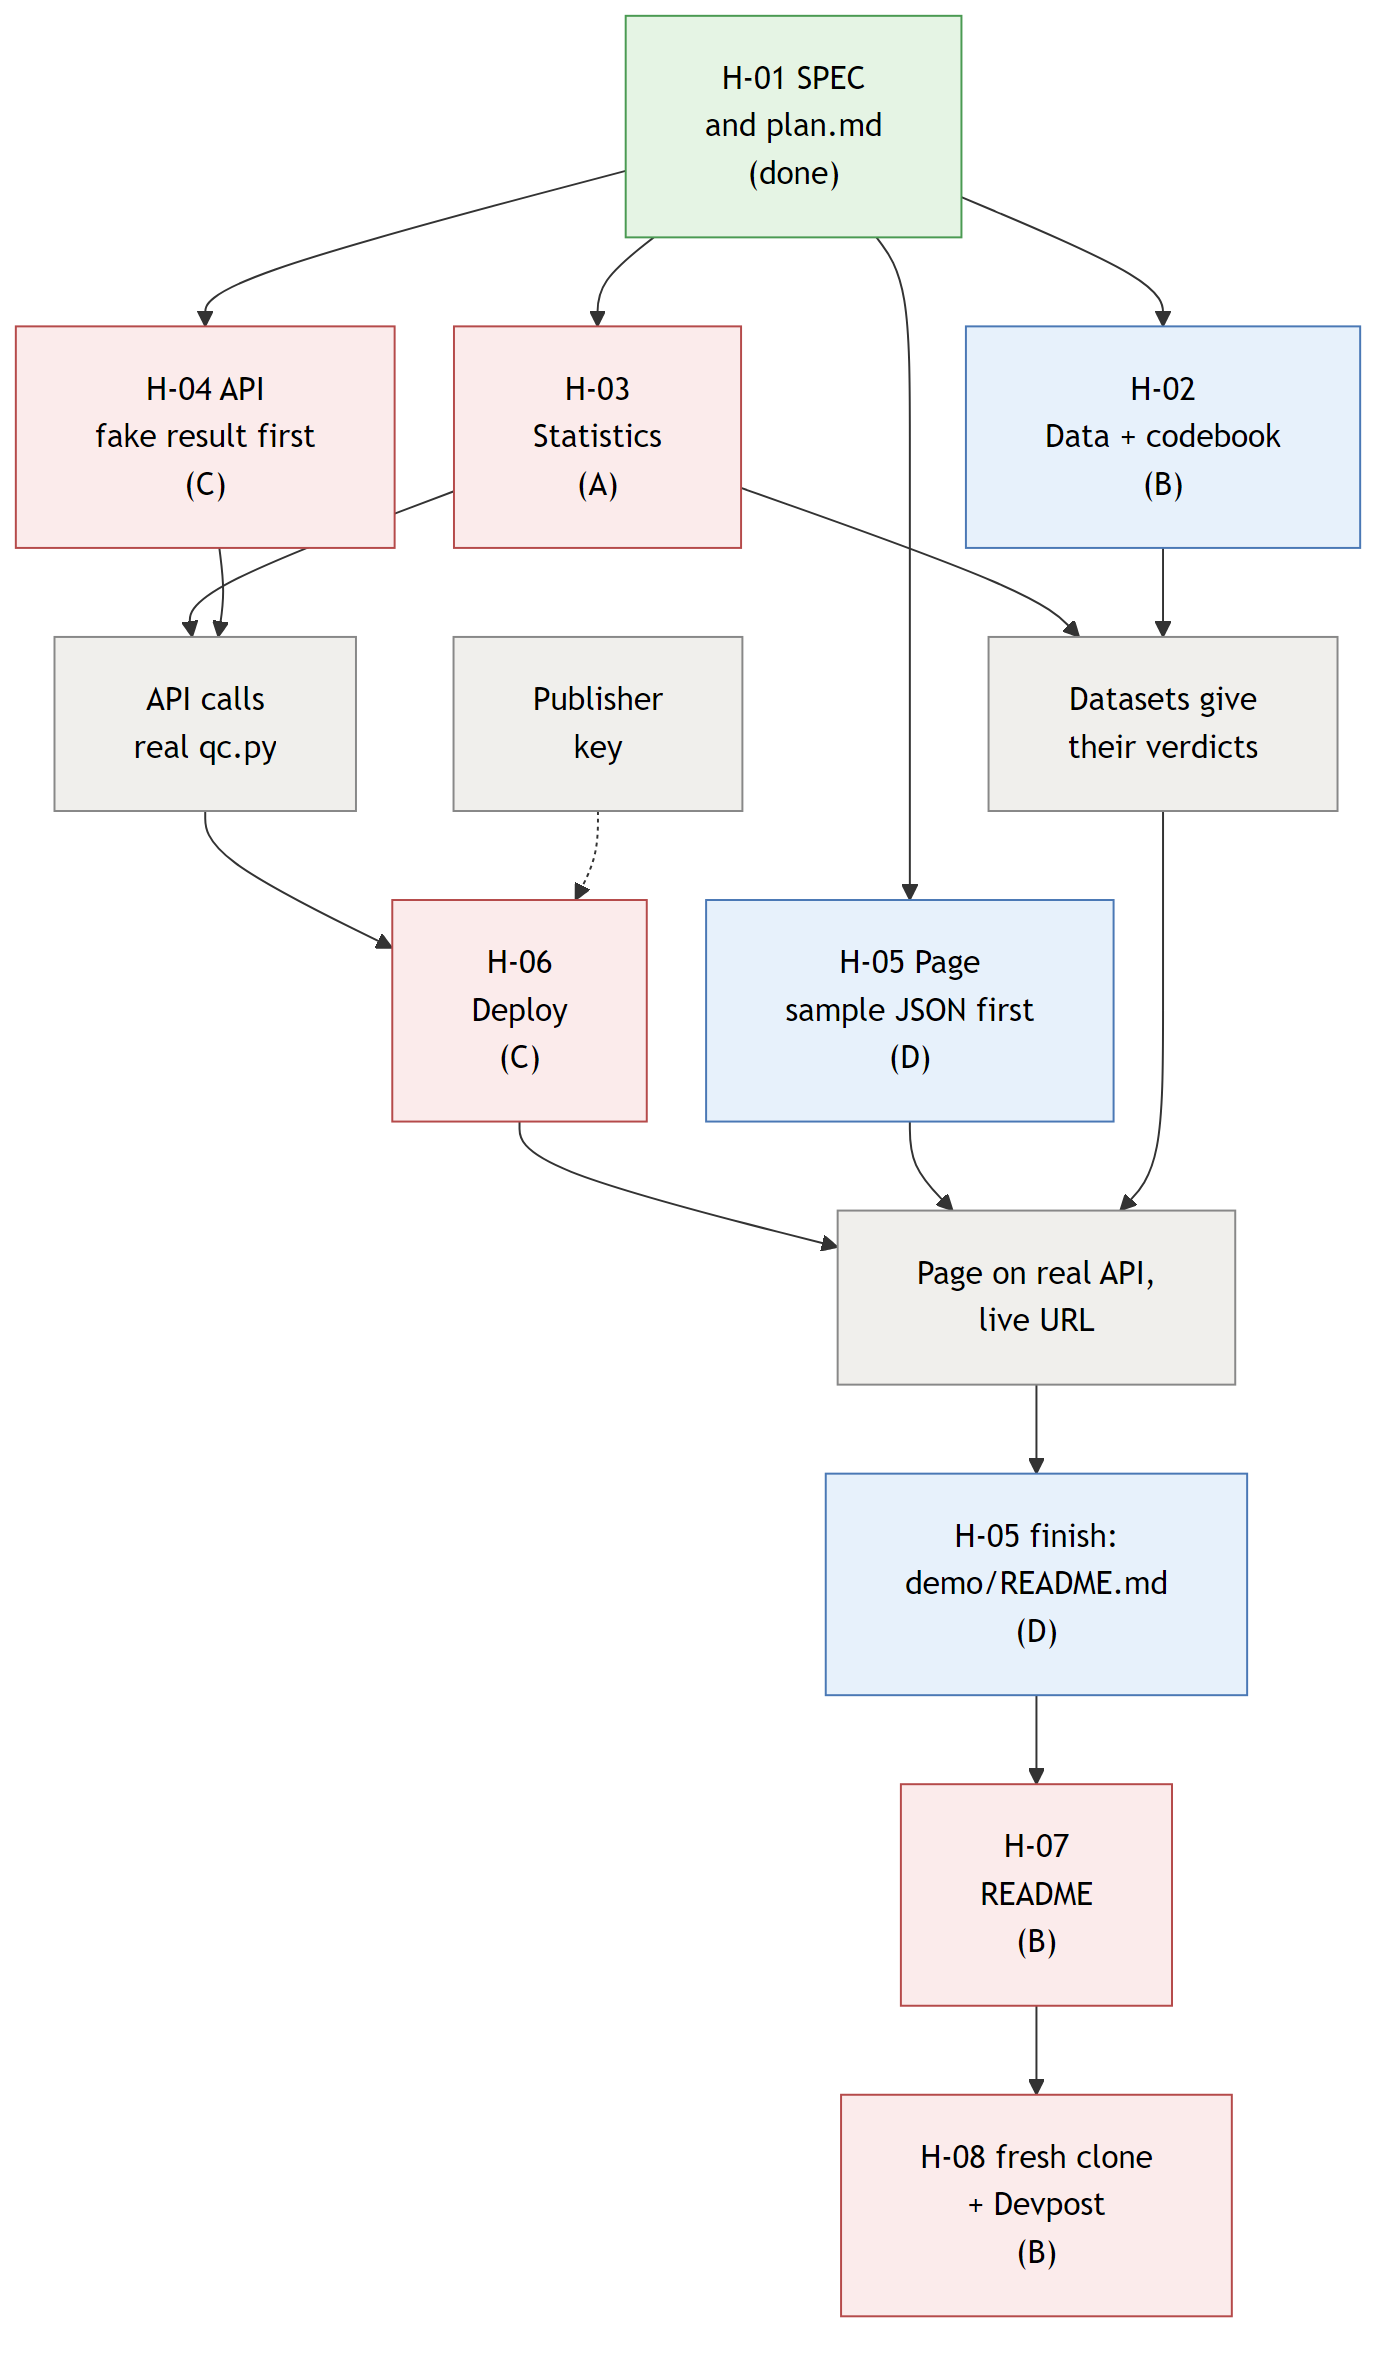
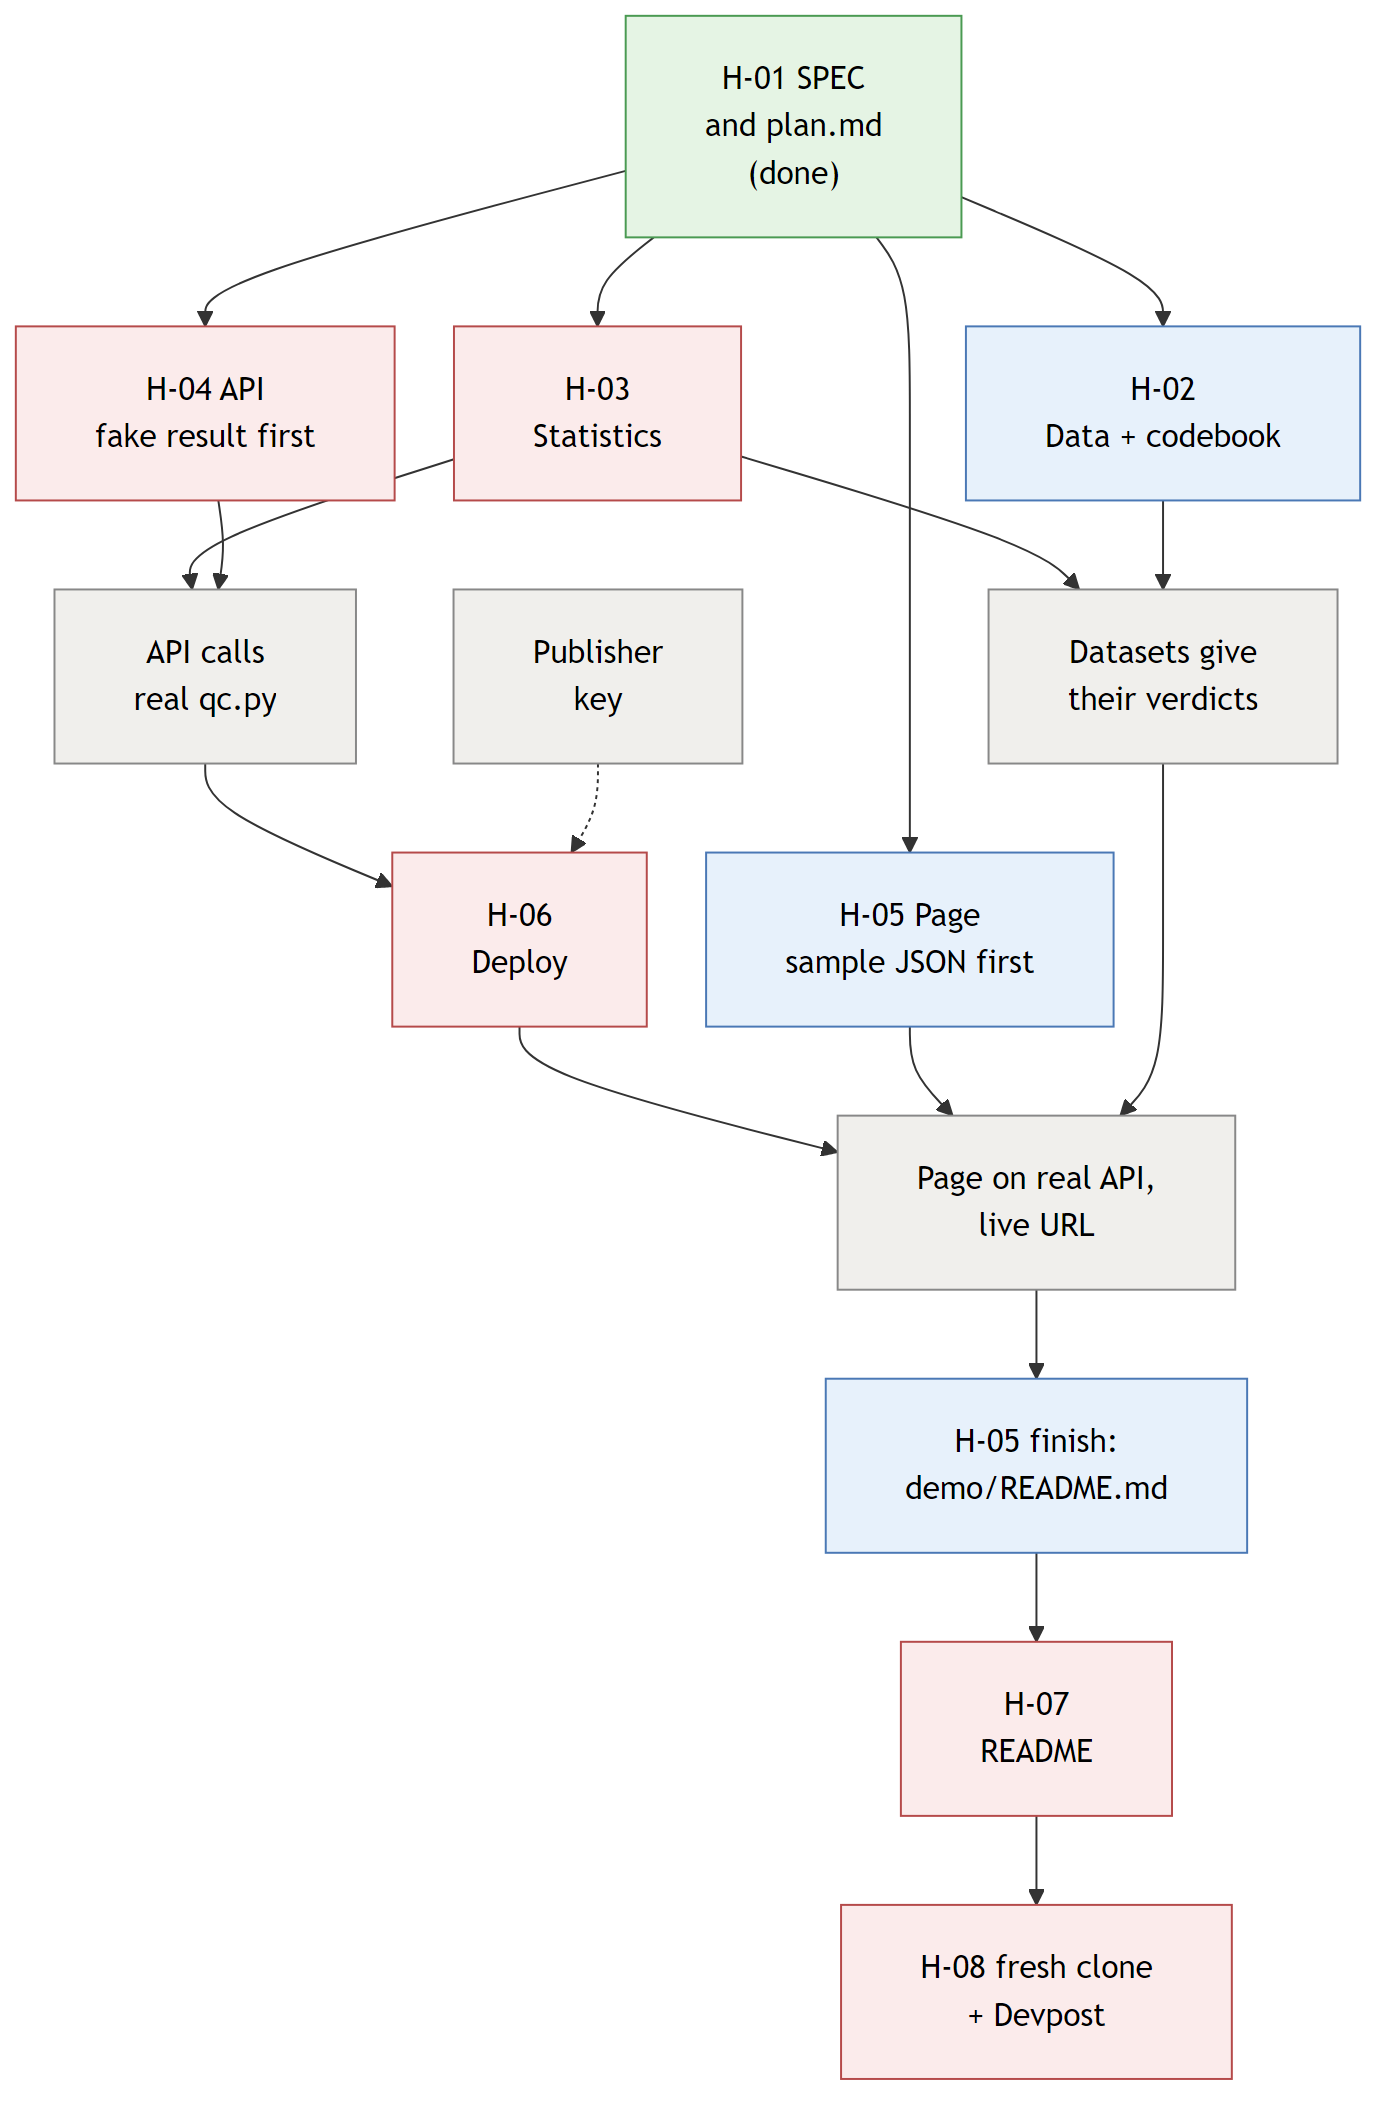
team-guide: claim-your-own-task model; no pre-assigned roles

diff --git a/docs/team-guide.md b/docs/team-guide.md
@@ -5,11 +5,11 @@ Sigma Airlines · AeroQual release 1 · written 2026-10-20
 **Deadline: Friday Oct 23, 3 PM ET** on [Devpost](https://six-sigma-hackathon.devpost.com/). **Our own deadline is
 Thursday Oct 22, 8 PM ET**: everything done and submitted, leaving Friday as a buffer.
 
-**How this works:** every task has an owner (A, B, C or D, below). Each owner starts their task by its
-*start by* time and pushes progress as they go. C is also the **backup**: if a task has not started by
-its start-by time, or shows no pushed progress by its check-in, C asks in the team chat and may take it
-over, so the deadline never depends on one person's busy week. Anyone with spare time can also take a
-review or help on a task whose owner asks for it.
+**How this works:** nobody is pre-assigned. **Pick a task when you have time, and claim it in the team
+chat before you start**, so nobody duplicates work. Zaur keeps going on the critical path and always
+posts which task he is on now and which he will start next; leave those two to him. Every task has a
+*start by* time: if it is still unclaimed then, whoever is free (usually Zaur) takes it, so the deadline
+never depends on one person's busy week. Short on time? Take a 20-30 minute review instead.
 
 The *what* is in [`SPEC.md`](../SPEC.md), the *how* in [`plan.md`](plan.md), the pictures in
 [`architecture.md`](architecture.md), and the *why* in [`decisions.md`](decisions.md). Who has what
@@ -21,22 +21,22 @@ right now is always in [`CONTRACT.yaml`](../CONTRACT.yaml) (`status` and `owner`
 %%{init: {"flowchart": {"padding": 20, "nodeSpacing": 30, "rankSpacing": 45}}}%%
 flowchart TD
     S["H-01 SPEC<br>and plan.md<br>(done)"]
-    S --> T3["H-03<br>Statistics<br>(A)"]
-    S --> T2["H-02<br>Data + codebook<br>(B)"]
-    S --> T4["H-04 API<br>fake result first<br>(C)"]
-    S --> T5["H-05 Page<br>sample JSON first<br>(D)"]
+    S --> T3["H-03<br>Statistics"]
+    S --> T2["H-02<br>Data + codebook"]
+    S --> T4["H-04 API<br>fake result first"]
+    S --> T5["H-05 Page<br>sample JSON first"]
     T3 --> J1["API calls<br>real qc.py"]
     T4 --> J1
     T3 --> J2["Datasets give<br>their verdicts"]
     T2 --> J2
-    J1 --> T6["H-06<br>Deploy<br>(C)"]
+    J1 --> T6["H-06<br>Deploy"]
     K["Publisher<br>key"] -.-> T6
     T6 --> J3["Page on real API,<br>live URL"]
     T5 --> J3
     J2 --> J3
-    J3 --> T5b["H-05 finish:<br>demo/README.md<br>(D)"]
-    T5b --> T7["H-07<br>README<br>(B)"]
-    T7 --> T8["H-08 fresh clone<br>+ Devpost<br>(B)"]
+    J3 --> T5b["H-05 finish:<br>demo/README.md"]
+    T5b --> T7["H-07<br>README"]
+    T7 --> T8["H-08 fresh clone<br>+ Devpost"]
 
     classDef done fill:#e5f4e4,stroke:#4a9a52,color:#000
     classDef crit fill:#fbebeb,stroke:#b54a4a,color:#000
@@ -61,66 +61,61 @@ tasks have the tightest check-ins. H-02 and H-05 run alongside and block nobody.
 | 3 | H-04 and H-06 done | H-05 on the live API + `demo/README.md`; H-07 README |
 | 4 | everything done | H-08 |
 
-## Who owns what
-
-| Role | Tasks | Files you own | You review |
-|---|---|---|---|
-| **A**: Statistics | H-03 | `app/qc.py`, `app/requirements.txt`, `tests/` | C's API numbers (H-04) |
-| **B**: Data and docs | H-02, H-07, H-08 | `data/`, `README.md`, `app/README.md`, `.gitignore` | A's statistics (H-03) |
-| **C**: API, deploy, backup (repo owner) | H-04, H-06 | `app/` (except A's files), `.github/` | D's page (H-05) |
-| **D**: Front end and demo | H-05 | `app/frontend/`, `demo/` | B's README (H-07) |
-
 ## Task board
 
-All times ET. *Start by* = the task is checked out in `CONTRACT.yaml` (`status: in_progress`, your
-name as owner). *Check-in* = the work so far is pushed and the chat knows where it stands.
+All times ET. *Start by* = someone has claimed it in the chat and checked it out in `CONTRACT.yaml`
+(`status: in_progress`, their name as owner). *Check-in* = the work so far is pushed and the chat knows
+where it stands. Each task writes only to its own files, so people never step on each other.
 
-| Task | What | Owner | Start by | Check-in | Done by | Size |
+| Task | What | Its files | Start by | Check-in | Done by | Size |
 |---|---|---|---|---|---|---|
-| H-03 | Statistics function and tests | A | Tue Oct 20, 9 PM | Wed Oct 21, 9 AM | Wed Oct 21, noon | ~4 h |
-| H-02 | Three datasets + codebook | B | Tue Oct 20, 9 PM | Wed Oct 21, 9 AM | Wed Oct 21, noon | ~3 h |
-| H-04 | API + LPBF profile | C | Tue Oct 20, 9 PM | Wed Oct 21, 9 AM | Wed Oct 21, 3 PM | ~4 h |
-| H-05 | Page + demo walkthrough | D | Wed Oct 21, 9 AM | Wed Oct 21, 3 PM | Thu Oct 22, noon | ~5 h |
-| H-06 | Deploy to Posit Connect | C | Wed Oct 21, 3 PM | Wed Oct 21, 6 PM | Wed Oct 21, 9 PM | ~2 h |
-| H-07 | README | B | Thu Oct 22, 9 AM | Thu Oct 22, noon | Thu Oct 22, 3 PM | ~2 h |
-| H-08 | Fresh-clone check + Devpost | B | Thu Oct 22, 3 PM | Thu Oct 22, 5 PM | **Thu Oct 22, 8 PM** | ~1 h |
+| H-03 | Statistics function and tests | `app/qc.py`, `app/requirements.txt`, `tests/` | Tue Oct 20, 9 PM | Wed Oct 21, 9 AM | Wed Oct 21, noon | ~4 h |
+| H-02 | Three datasets + codebook | `data/` | Tue Oct 20, 9 PM | Wed Oct 21, 9 AM | Wed Oct 21, noon | ~3 h |
+| H-04 | API + LPBF profile | `app/` (except H-03's files) | Tue Oct 20, 9 PM | Wed Oct 21, 9 AM | Wed Oct 21, 3 PM | ~4 h |
+| H-05 | Page + demo walkthrough | `app/frontend/`, `demo/` | Wed Oct 21, 9 AM | Wed Oct 21, 3 PM | Thu Oct 22, noon | ~5 h |
+| H-06 | Deploy to Posit Connect (repo owner) | `.github/`, `app/manifest.json` | Wed Oct 21, 3 PM | Wed Oct 21, 6 PM | Wed Oct 21, 9 PM | ~2 h |
+| H-07 | README | `README.md`, `app/README.md` | Thu Oct 22, 9 AM | Thu Oct 22, noon | Thu Oct 22, 3 PM | ~2 h |
+| H-08 | Fresh-clone check + Devpost | `.gitignore` | Thu Oct 22, 3 PM | Thu Oct 22, 5 PM | **Thu Oct 22, 8 PM** | ~1 h |
 
-The live status is in `CONTRACT.yaml`: `todo` (not started), `in_progress` (who has it), `done`.
+Who has what right now: `git pull`, then look at `status` and `owner` in `CONTRACT.yaml`, and at the
+latest claims in the chat. H-06 needs the repo owner (Zaur) because only he can add the deploy secrets.
 
-**Reviews** take 20-30 minutes each, and every task needs one before it counts as done:
+**Reviews** take 20-30 minutes each, and every task needs one before it counts as done. Any teammate
+who did not build the task can do it; claim it in the chat like a task:
 
-| Review | Reviewer | What you do |
+| Review | After | What you do |
 |---|---|---|
-| Statistics (H-03) | B | Read `app/qc.py` against SPEC §4; rerun the known-answer numbers |
-| Datasets (H-02) | A | Open each CSV; check the columns, 3 coupons per build, the codebook |
-| API numbers (H-04) | A | Run `testme`, call `/analyze` on one dataset, compare with H-03's numbers |
-| Page (H-05) | C | Run each dataset on the page; compare the numbers with the API |
-| Live tool (H-06) | D | Open the public URL logged out; run each dataset |
-| README (H-07) | D | Follow it from a fresh clone, exactly as a judge would |
+| Statistics | H-03 | Read `app/qc.py` against SPEC §4; rerun the known-answer numbers |
+| Datasets | H-02 | Open each CSV; check the columns, 3 coupons per build, the codebook |
+| API numbers | H-04 | Run `testme`, call `/analyze` on one dataset, compare with H-03's numbers |
+| Page | H-05 | Run each dataset on the page; compare the numbers with the API |
+| Live tool | H-06 | Open the public URL logged out; run each dataset |
+| README | H-07 | Follow it from a fresh clone, exactly as a judge would |
 
-## Starting your task
+## Picking up a task
 
-1. `git pull`. Tell the team chat: "Starting H-02."
-2. In Claude Code: `/superagent build H-02`. The agent marks it `in_progress` under your role. Let it
-   commit and push that **first**, so everyone can see it has started.
-3. Work through the task's checklist below. Your agent asks before every commit.
-4. **Push at least once by your check-in**, even if it is not finished, and say in one line where
+1. `git pull`. Check the chat and `CONTRACT.yaml`: pick a task that nobody has claimed, that is not
+   Zaur's "now" or "next", and that the task tree says can start.
+2. **Claim it in the chat:** "Taking H-02." First claim wins.
+3. In Claude Code: `/superagent build H-02`. The agent marks it `in_progress` under your name. Let it
+   commit and push that **first**, so everyone can see it in the repo too.
+4. Work through the task's checklist below. Your agent asks before every commit.
+5. **Push at least once by the check-in time**, even if it is not finished, and post one line on where
    you are ("H-02: two CSVs done, codebook next").
-5. Out of time? Push what works, then tell the chat what is left. Unfinished is fine; silent is not.
+6. Out of time? Push what works, then tell the chat what is left. Unfinished is fine; silent is not.
+7. Finished? Post "H-02 done, needs a review", and pick another task or a review if you have time.
 
-## Backup and takeover
+## When a task stalls
 
-C covers any task that stalls, so a busy week never sinks the team:
-
-- **Not started by its start-by time,** or **no pushed progress by its check-in:** C posts in the chat,
-  "H-02 hasn't started yet; I'll take it at 11 PM unless you say you're on it." The owner has **two
-  hours** to reply.
-- **No reply, or the owner says go ahead:** C changes the task's `owner` in `CONTRACT.yaml` and
-  carries on **from whatever the owner pushed**, never from scratch.
-- **The owner can still help:** review the task, or take back a later piece of it.
-- **Anyone ahead of schedule** can offer to help the same way: ask the owner first, then work only in
-  the files they agree to.
-- **The owner asks for help early?** Even better. Say so in the chat as soon as you know.
+- **Unclaimed at its start-by time:** whoever is free claims it in the chat as usual. Zaur takes it if
+  nobody else does.
+- **Claimed, but nothing pushed by its check-in:** someone asks in the chat, "Still on H-02? I can take
+  it at 11 PM unless you say you're on it." The owner has **two hours** to reply.
+- **No reply, or the owner says go ahead:** the new person changes `owner` in `CONTRACT.yaml` and carries
+  on **from whatever was pushed**, never from scratch. The first owner can still review it or help.
+- **Want to help on someone else's task?** Ask its owner first, then work only in the files they agree to.
+- **Know early that you can't finish?** Say so in the chat as soon as you know. That is the most
+  helpful thing you can do.
 
 ## Before you start (once)
 
